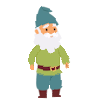
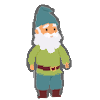
Collector. added fall animation + updated task

Changed region(s): [[0.24, 0.03, 0.72, 0.99], [0.45, 0.84, 0.54, 0.99]]

diff --git a/src/gameApp/units/Collector.ts b/src/gameApp/units/Collector.ts
@@ -34,8 +34,8 @@ import ImprovementParameterItem from '../../models/ImprovementParameterItem';
 //TODO: import PickImage from '../../assets/img/units/collector/pick.png'; 
 import CollectorShopImage from '../../assets/img/units/collector/shopImage.png'
 //TODO: 
-/*import CollectorFallImage from '../../assets/img/units/collector/fall.png'; 
-import CollectorFallEndImage from '../../assets/img/units/collector/fallEnd.png'; 
+import CollectorFallImage from '../../assets/img/units/collector/fall.png'; 
+/*import CollectorFallEndImage from '../../assets/img/units/collector/fallEnd.png'; 
 import CollectorActiveWaitImage from '../../assets/img/units/collector/activeWait.png'; 
 import CollectorDiggingImage from '../../assets/img/units/collector/digging.png'; 
 import CollectorStartActiveWaitImage from '../../assets/img/units/collector/startActiveWait.png'; */
@@ -67,7 +67,7 @@ export class Collector extends Unit{
 	private static readonly scaleSize: number = 0.75;
 	private static readonly shopImage: HTMLImageElement = new Image();
 	private static readonly passiveWaitingImage: HTMLImageElement = new Image();
-	//TODO: private static readonly fallImage: HTMLImageElement = new Image();
+	private static readonly fallImage: HTMLImageElement = new Image();
 	//TODO: private static readonly fallEndImage: HTMLImageElement = new Image(); 
 	//TODO: private static readonly startActiveWaitImage: HTMLImageElement = new Image(); 
 	//TODO: private static readonly activeWaitImage: HTMLImageElement = new Image(); 
@@ -94,7 +94,7 @@ export class Collector extends Unit{
 			Collector.shopImage, 											//TODO: Collector.pickImage,   			//image weapon
 			null,	//attack 
 			new AnimationInfinite(1, 1000, Collector.passiveWaitingImage), 	//passive waiting
-			Collector.passiveWaitingImage, 									//TODO: Collector.fallImage,			//fall image
+			Collector.fallImage,			//fall image
 			new Animation(1, 1000, Collector.passiveWaitingImage), 			//TODO: new Animation(31, 31 * 75, Collector.fallEndImage), 			//fall end animation
 			new Animation(1, 1000, Collector.passiveWaitingImage), 			//TODO: new Animation(5, 5 * 75, Collector.startActiveWaitImage), 		//startActiveWaitingAnimation
 			new AnimationInfinite(1, 1000, Collector.passiveWaitingImage), 	//TODO: new AnimationInfinite(4, 4 * 75, Collector.activeWaitImage), 	//activeWaitingAnimation
@@ -142,7 +142,7 @@ export class Collector extends Unit{
 		if(isLoadResources && Collector.imageHandler.isEmpty){
 			Collector.imageHandler.new(Collector.shopImage).src = CollectorShopImage;
 			Collector.imageHandler.new(Collector.passiveWaitingImage).src = CollectorPassiveWaitingImage;
-			//TODO: Collector.imageHandler.new(Collector.fallImage).src = CollectorFallImage;
+			Collector.imageHandler.new(Collector.fallImage).src = CollectorFallImage;
 			//TODO: Collector.imageHandler.new(Collector.fallEndImage).src = CollectorFallEndImage;
 			//TODO: Collector.imageHandler.new(Collector.startActiveWaitImage).src = CollectorStartActiveWaitImage;
 			//TODO: Collector.imageHandler.new(Collector.activeWaitImage).src = CollectorActiveWaitImage;

diff --git a/src/reactApp/pages/Test/TestPage.tsx b/src/reactApp/pages/Test/TestPage.tsx
@@ -2236,6 +2236,32 @@ class TestPage extends React.Component {
                 }, 300);
             }
         },
+
+        
+        {
+            key: "Золотособиратель - магазин + зомби",
+            code: () => {
+                AudioSystem.isEnabled = false;
+                App.Store.dispatch(MenuStore.actionCreators.startGame());
+                Game.startNew();
+                WawesState.delayEndLeftTimeMs = WawesState.delayStartLeftTimeMs = 0;
+                WawesState.isWaveStarted = false;
+                Waves.waveCurrent = 0;
+                Gamer.coins = 1500;
+                Menu.displayShopButton();
+                Menu.displayNewWaveButton();
+                AudioSystem.isEnabled = true;
+
+                FlyEarth.loadSeparateCrystals();
+
+                setTimeout(() => {
+                    var y = Buildings.flyEarth.centerY - 80;
+                    var miner3 = new Miner(Buildings.flyEarth.centerX - 144, y, y + Miner.imageHeight);
+                    miner3.loadedResourcesAfterBuild();
+                    Units.all.push(miner3);
+                }, 300);
+            }
+        },
     ];
 
     waitLoadingImage(imageHandler: ImageHandler, callback: Function){
